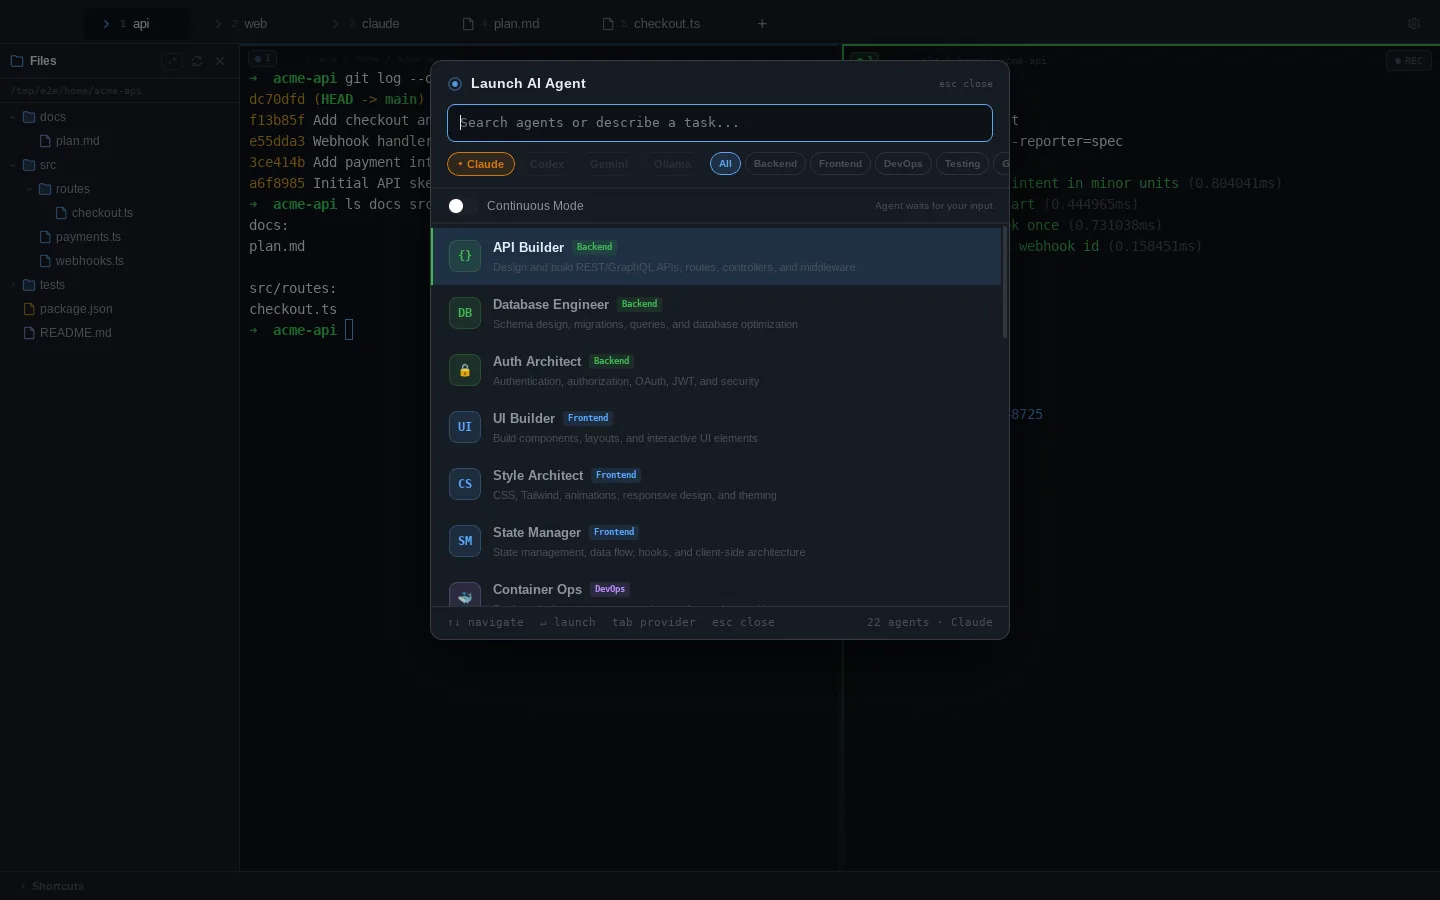
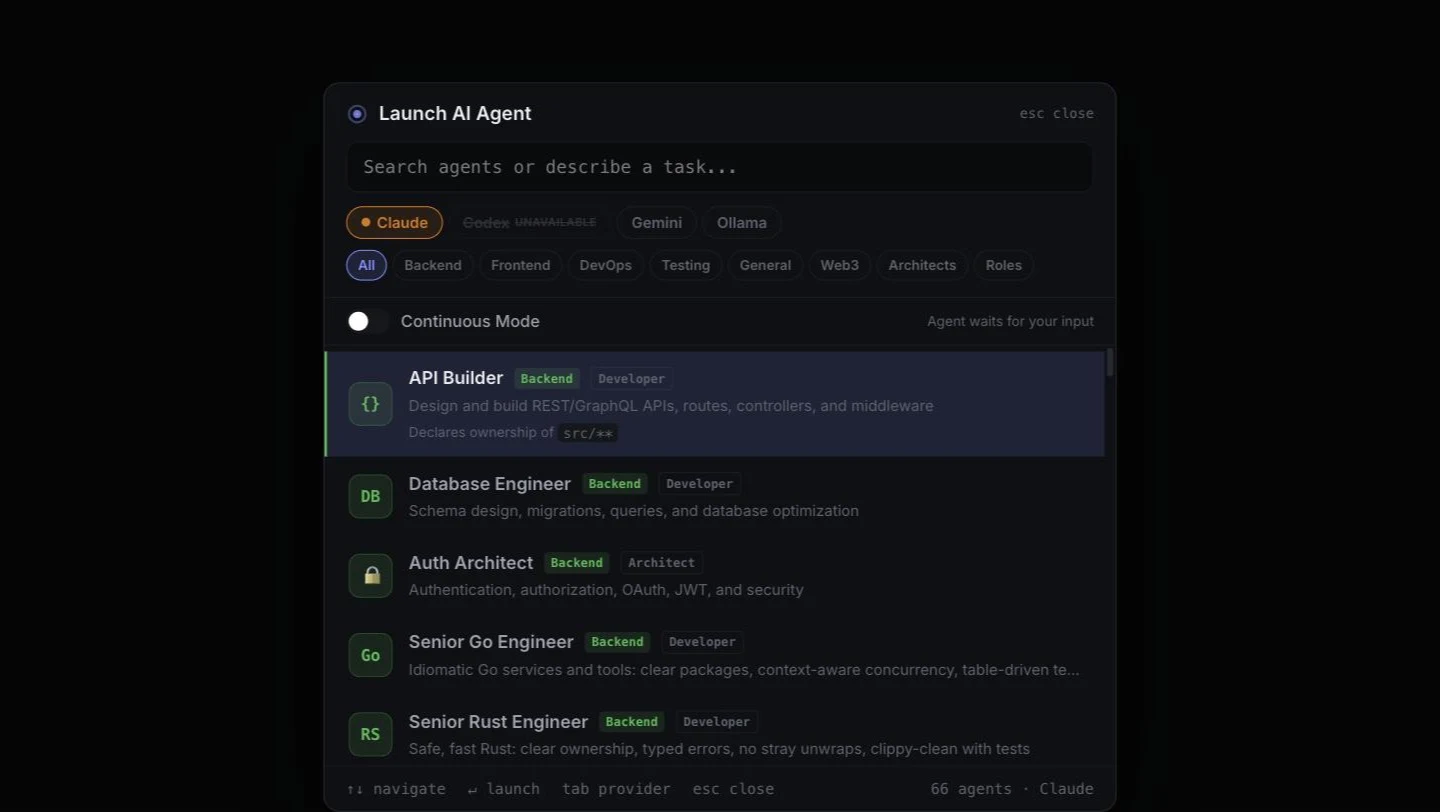
Reshoot the agent picker, and stop the numbers drifting again
The picker screenshot on the landing page was taken when the catalogue
held 22 agents. It had been sitting next to a heading claiming 47, so the
page contradicted its own evidence to anyone who looked closely.

Both numbers were wrong for the card. The picker's footer renders every
curated pair plus every bare role, so what it actually shows is 66: the 47
role-and-domain profiles the heading meant, and the 19 standalone roles it
forgot. The heading and body now say that, and the image shows it.

Shot by mounting AgentPicker on its own against the dev server, because
the app needs the Tauri runtime to boot and macOS would not let a window
be raised for a conventional screen capture. The harness is deleted again;
it is not worth keeping for a once-a-release picture.

Counting by hand is what let the page and the data drift apart, so a test
now reads the numbers off the page and checks each against the catalogue,
and checks the declared image size against the file's own header. Verified
by putting "22" back and watching both fail.

Codex still shows as unavailable in the shot. That is real: there is no
verified way to pass it a role definition, and the UI says so.

diff --git a/scripts/siteClaims.test.ts b/scripts/siteClaims.test.ts
@@ -1,0 +1,52 @@
+import { describe, expect, it } from "vitest";
+import { readFileSync } from "node:fs";
+import { resolve } from "node:path";
+import { CURATED_ITEMS, PICKER_ITEMS, ROLE_ITEMS } from "../src/data/pickerItems";
+
+/**
+ * The landing page claimed "47 agent profiles" beside a screenshot whose own
+ * footer read "22 agents" — the catalogue had grown and neither the number nor
+ * the picture followed. Counting by hand is what let them drift apart, so the
+ * numbers the page prints are checked against the data the app actually loads.
+ *
+ * The picker footer renders `{filtered.length} agents`, which unfiltered is
+ * every curated pair plus every bare role — that total is what a screenshot of
+ * the picker will show, so the page has to agree with it.
+ */
+const html = readFileSync(resolve(__dirname, "..", "docs", "index.html"), "utf8");
+
+/** Every standalone integer the page states, so a stale one cannot hide. */
+function claims(): number[] {
+  return [...html.matchAll(/\b(\d{2,3})\b(?=\s*(?:agent|role|profile))/gi)].map((m) => Number(m[1]));
+}
+
+describe("the site's agent numbers match the app", () => {
+  it("every agent/role count on the page is one the data supports", () => {
+    const real = new Set([CURATED_ITEMS.length, ROLE_ITEMS.length, PICKER_ITEMS.length]);
+    const wrong = claims().filter((n) => !real.has(n));
+    expect(
+      wrong,
+      `page states ${wrong.join(", ")}; the data has ${[...real].sort((a, b) => a - b).join(", ")}`,
+    ).toEqual([]);
+  });
+
+  it("states the total a picker screenshot would show", () => {
+    // Guards against quietly dropping the headline number entirely.
+    expect(html).toContain(`${PICKER_ITEMS.length} agents`);
+  });
+
+  it("the screenshot's declared size matches the file on disk", () => {
+    // A wrong width/height makes the browser reserve the wrong box and the
+    // card jumps on load; it also signals the image was swapped without care.
+    const img = readFileSync(resolve(__dirname, "..", "docs/assets/img/agents.webp"));
+    // VP8 (lossy) webp: dimensions sit at byte 26, 14 bits each, stored as-is.
+    const w = img.readUInt16LE(26) & 0x3fff;
+    const h = img.readUInt16LE(28) & 0x3fff;
+    const tag = /<img src="\{\{ img \}\}agents\.webp" width="(\d+)" height="(\d+)"/.exec(html);
+    expect(tag, "agents.webp img tag not found").toBeTruthy();
+    expect(
+      [Number(tag![1]), Number(tag![2])],
+      `file is ${w}x${h}, page declares ${tag![1]}x${tag![2]}`,
+    ).toEqual([w, h]);
+  });
+});

diff --git a/docs/index.html b/docs/index.html
@@ -79,9 +79,9 @@ llms.txt
           <p>Every agent and sub-agent on one live timeline, with its real cost.</p>
         </article>
         <article class="feat-card">
-          <div class="feat-media"><img src="{{ img }}agents.webp" width="1440" height="900" loading="lazy" alt="The agent picker listing API Builder, Database Engineer, Auth Architect and other agent profiles"></div>
-          <h3>47 agent profiles</h3>
-          <p>Backend, Web3, DevOps, testing and more. Run one here or in a new tab.</p>
+          <div class="feat-media"><img src="{{ img }}agents.webp" width="1440" height="812" loading="lazy" alt="The agent picker listing API Builder, Database Engineer, Auth Architect and other agent profiles"></div>
+          <h3>66 agents, one keystroke away</h3>
+          <p>47 role-and-domain profiles and 19 standalone roles. Backend, Web3, DevOps, testing and more.</p>
         </article>
         <article class="feat-card">
           <div class="feat-media bottom"><img src="{{ img }}scratchpad.webp" width="1440" height="430" loading="lazy" alt="The scratchpad under the terminals with a drafted prompt and Send to Terminal"></div>
